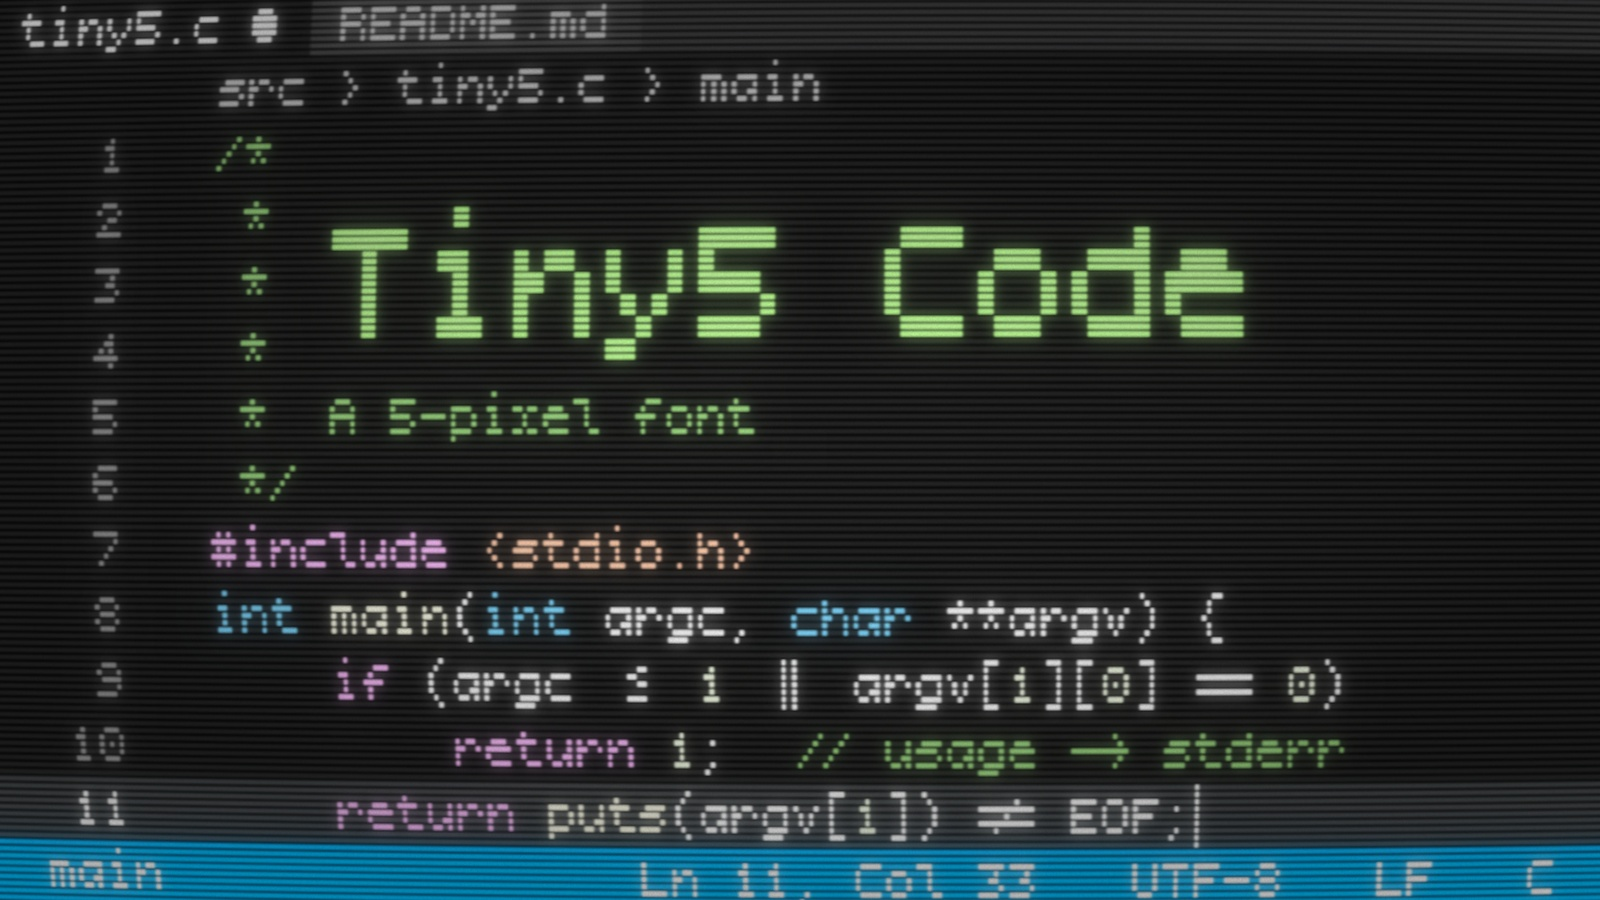
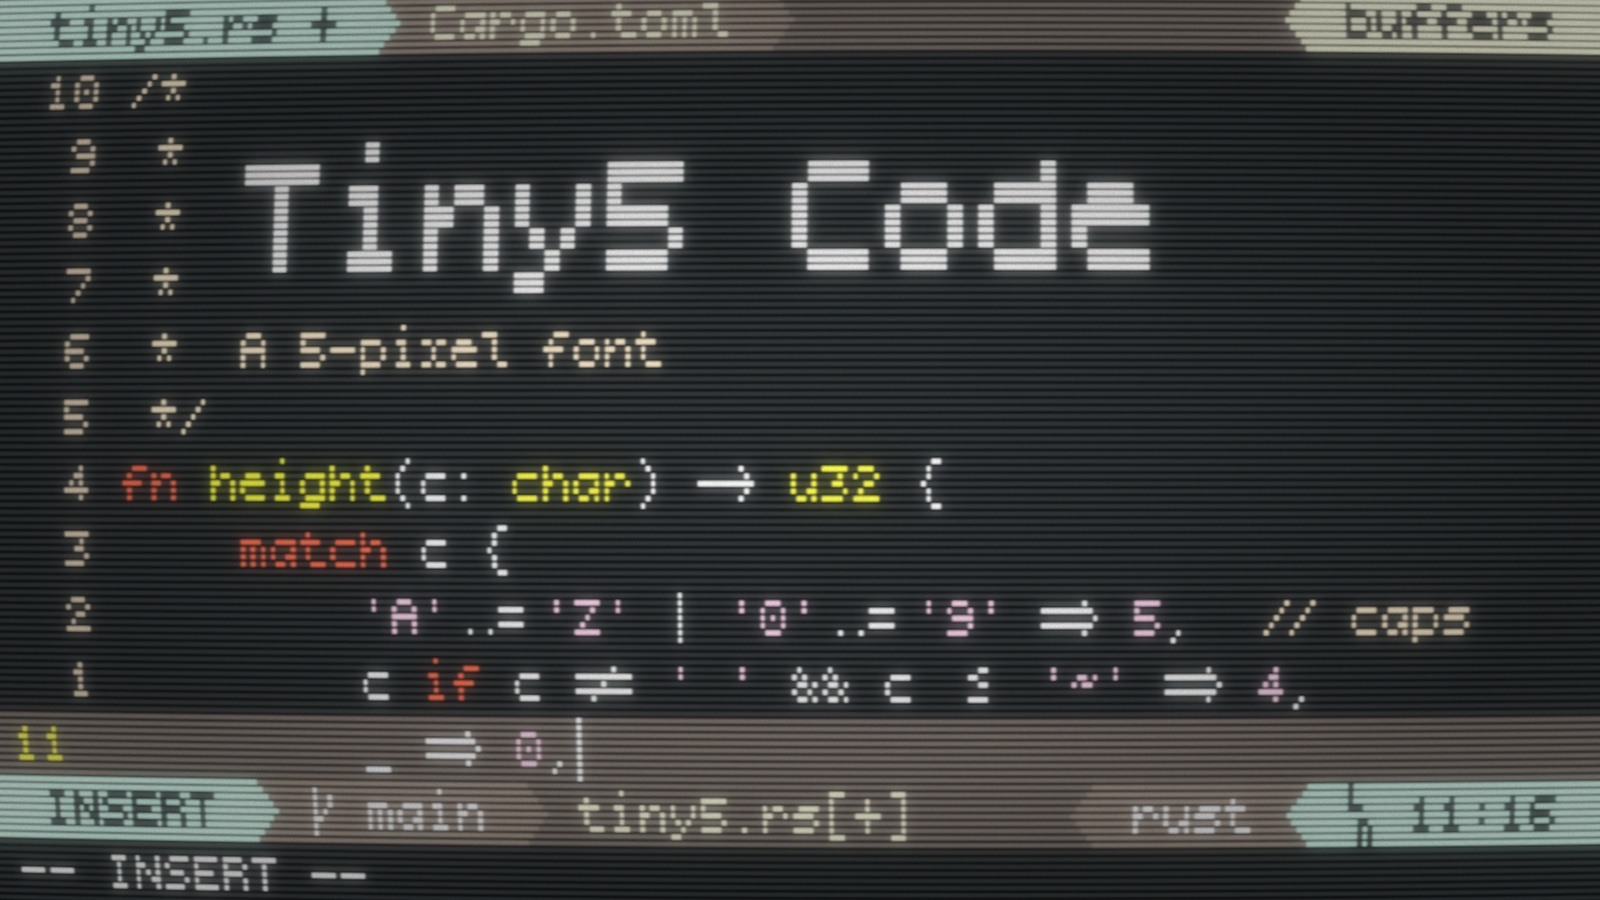
3.002

diff --git a/documentation/build-specimen.py b/documentation/build-specimen.py
@@ -21,9 +21,10 @@
 # repository: tiny5mono-github.jpg, its social preview image.
 #
 # Tiny5 Code, Tiny5 Mono with ligatures, shares every other specimen with
-# Tiny5 Mono, but has its own editor sample, tiny5code-sample1.jpg, set with
-# its ligatures: its other glyphs are Tiny5 Mono's, its ligature glyphs are
-# read from its outlines, and the text is shaped by bdf2ufo's own calt rules
+# Tiny5 Mono, but has its own code sample, tiny5code-sample1.jpg: a Vim
+# session with Powerline bars, on the editor's tube, set with its ligatures.
+# Its other glyphs are Tiny5 Mono's, its ligature glyphs are read from its
+# outlines, and the text is shaped by bdf2ufo's own calt rules
 # (scripts/bdf2ufo/calt.py), so no text shaper is needed.
 #
 # Besides the build's own requirements, the thermal receipt is path-traced
@@ -520,17 +521,6 @@ ED_SOURCE = [
     "    return 0;",
     "}",
 ]
-
-# Tiny5 Code's source keeps the comment, and has an operator or two on every
-# line after it, so its ligatures show: <= || == // -> !=
-ED_CODE_SOURCE = ED_SOURCE[:6] + [
-    "#include <stdio.h>",
-    "int main(int argc, char **argv) {",
-    "    if (argc <= 1 || argv[1][0] == 0)",
-    "        return 1;  // usage -> stderr",
-    "    return puts(argv[1]) != EOF;",
-    "}",
-]
 ED_CURSOR_LINE = 10             # 0-based: the line being typed
 ED_KEYWORDS = {"int", "void", "char", "const", "unsigned", "static"}
 ED_CONTROLS = {"return", "if", "else", "for", "while"}
@@ -562,12 +552,6 @@ ED_LAYOUTS = {
     "itch": {"canvas": ITCH_SIZE, "rows": 17, "code_col": 6, "name": ["Tiny5", "Mono"], "scale": 2},
     "itch-banner": {"canvas": BANNER_SIZE, "rows": 12, "code_col": 8, "name": ["Tiny5 Mono"],
                     "scale": 2},
-}
-
-# Tiny5 Code's sample, laid out as Tiny5 Mono's, set with its ligatures
-ED_CODE_LAYOUTS = {
-    "sample1": {"canvas": CANVAS, "rows": 14, "code_col": 8, "name": ["Tiny5 Code"], "scale": 1,
-                "code": True},
 }
 
 
@@ -608,17 +592,15 @@ def put_code(s, col, row, line, bg):
 def compose_editor(layout):
     """Compose the editor in a layout."""
     rows, code_col, scale = layout["rows"], layout["code_col"], layout["scale"]
-    code = layout.get("code", False)
     cols = crt_columns(rows, layout["canvas"])
-    s = TextScreen(cols, rows, ED_TEXT, ED_BG, ligatures=code)
+    s = TextScreen(cols, rows, ED_TEXT, ED_BG)
 
     # The source's comment makes room for the name on one line at its
     # smallest, and opens up as many lines more as a larger name needs,
     # keeping a pixel of the name's below it
     name_size = big_bitmap(layout["name"], ED_NAME_PITCH).size
     extra = big_cells((name_size[0] * scale, (name_size[1] + 1) * scale))[1] - 3
-    source = ED_CODE_SOURCE if code else ED_SOURCE
-    source = source[:1] + [" *"] * extra + source[1:]
+    source = ED_SOURCE[:1] + [" *"] * extra + ED_SOURCE[1:]
     cursor_line = ED_CURSOR_LINE + extra
 
     # The tab bar: the file being edited, and one more behind it
@@ -658,14 +640,168 @@ def build_editor():
     """The modern editor, on a color CRT: the tab bar against the top of
     the frame and the status bar against its foot. Its itch.io cover and
     banner, and its GitHub social preview, are laid out anew on their own
-    frames. Tiny5 Code's sample is the editor once more, set with its
-    ligatures."""
+    frames."""
     for name, layout in ED_LAYOUTS.items():
         save_image(render_crt(compose_editor(layout), layout["canvas"]), name,
                    google=layout["canvas"] == CANVAS)
-    for name, layout in ED_CODE_LAYOUTS.items():
-        save_image(render_crt(compose_editor(layout), layout["canvas"]), name,
-                   google=layout["canvas"] == CANVAS, family="tiny5code")
+
+
+# --- Vim with Powerline: Tiny5 Code's sample --------------------------------
+
+# Tiny5 Code's sample is a Vim session, on the editor's tube and at its
+# zoom, in the warm gruvbox theme: the buffer line across the top and the
+# status line along the foot are Powerline bars, their segments parted by
+# the font's own Powerline arrows; the line numbers count from the cursor's
+# line, as with relativenumber; and the command line below shows the mode.
+# The source is Rust, and after the comment it has an operator or two on
+# every line, so the ligatures show: -> ..= => // != <= --
+#
+# gruvbox's grays and pastels are muted; on the tube they are lifted a step
+# or two up its own ramp, so the screen reads as brightly as the editor's
+VIM_BG = (29, 32, 33)           # gruvbox dark, hard
+VIM_BG1 = (80, 73, 69)          # the cursor's line, the bars' fill
+VIM_BG2 = (102, 92, 84)
+VIM_FG = (251, 241, 199)
+VIM_FG4 = (213, 196, 161)
+VIM_DARK = (29, 32, 33)         # text on a bright segment
+VIM_LINE_NR = (168, 153, 132)
+VIM_COMMENT = (189, 174, 147)
+VIM_TITLE = (251, 241, 199)     # the banner's large type, the brightest
+VIM_KEYWORD = (251, 73, 52)
+VIM_FUNCTION = (184, 187, 38)
+VIM_STRING = (184, 187, 38)
+VIM_TYPE = (250, 189, 47)
+VIM_NUMBER = (231, 154, 175)    # numbers and character literals
+VIM_MODE = (151, 190, 175)      # insert mode's segment
+
+VIM_NAME = ["Tiny5 Code"]
+VIM_FILE = "tiny5.rs"
+VIM_SOURCE = ED_SOURCE[:6] + [
+    "fn height(c: char) -> u32 {",
+    "    match c {",
+    "        'A'..='Z' | '0'..='9' => 5,  // caps",
+    "        c if c != ' ' && c <= '~' => 4,",
+    "        _ => 0,",
+    "    }",
+    "}",
+]
+VIM_CURSOR_LINE = 10            # 0-based: the line being typed
+VIM_KEYWORDS = {"fn", "match", "if", "else", "let", "mut", "use", "return", "for", "in"}
+VIM_TYPES = {"char", "u8", "u32", "usize", "i32", "str", "bool", "String", "Self"}
+VIM_NUMBER_WIDTH = 4            # Vim's numberwidth: the gutter, with its gap
+VIM_MARGIN = 1                  # the terminal's padding either side, so the
+                                # tube's curve keeps the text in the frame;
+                                # the bars run on through it
+
+
+def put_rust(s, col, row, line, bg):
+    """Write a line of Rust in gruvbox's colors."""
+    if line.lstrip().startswith(("/*", "*")):
+        s.put(col, row, line, VIM_COMMENT, bg)
+        return
+    code, slashes, comment = line.partition("//")
+    x = col
+    tokens = re.findall(r"'[^']*'|\"[^\"]*\"|\w+|\W", code)
+    for i, token in enumerate(tokens):
+        following = next((t for t in tokens[i + 1:] if t != " "), "")
+        if token.startswith('"'):
+            color = VIM_STRING
+        elif token.startswith("'") or token.isdigit():
+            color = VIM_NUMBER
+        elif token in VIM_KEYWORDS:
+            color = VIM_KEYWORD
+        elif token in VIM_TYPES:
+            color = VIM_TYPE
+        elif token[0].isalpha() and following == "(":
+            color = VIM_FUNCTION
+        else:
+            color = VIM_FG
+        s.put(x, row, token, color, bg)
+        x += len(token)
+    if slashes:
+        s.put(x, row, slashes + comment, VIM_COMMENT, bg)
+
+
+def powerline(s, col, row, segments, fill, right=False):
+    """Draw a run of Powerline segments, each a text in its colors. From
+    the left, an arrow pointing right follows each segment, in its color on
+    the next one's, or on the fill; from the right, an arrow pointing left
+    leads each, in its color on the one before. On the right the run ends
+    at the column given."""
+    if right:
+        col -= sum(len(text) + 1 for text, _, _ in segments)
+    before = fill
+    for i, (text, fg, bg) in enumerate(segments):
+        if right:
+            s.put(col, row, "", bg, before)
+            s.put(col + 1, row, text, fg, bg)
+        else:
+            after = segments[i + 1][2] if i + 1 < len(segments) else fill
+            s.put(col, row, text, fg, bg)
+            s.put(col + len(text), row, "", bg, after)
+        col += len(text) + 1
+        before = bg
+
+
+def compose_vim():
+    """Compose the Vim session: the buffer line, the source in its window,
+    the status line and the command line."""
+    rows = ED_LAYOUTS["sample1"]["rows"]
+    screen_cols = crt_columns(rows, CANVAS)
+    cols = screen_cols - 2 * VIM_MARGIN
+    s = TextScreen(cols, rows, VIM_FG, VIM_BG)
+
+    # The buffer line: the file being edited, modified, and one more
+    s.fill(0, 0, cols, 1, " ", VIM_FG4, VIM_BG1)
+    powerline(s, 0, 0, [(f" {VIM_FILE} + ", VIM_DARK, VIM_MODE),
+                        (" Cargo.toml ", VIM_FG4, VIM_BG2)], VIM_BG1)
+    powerline(s, cols, 0, [(" buffers ", VIM_DARK, VIM_FG4)], VIM_BG1, right=True)
+
+    # The source, each line numbered by its distance from the cursor's, and
+    # the cursor's own line by its number, lit
+    top = 1
+    height = rows - top - 2
+    for i, line in enumerate(VIM_SOURCE[:height]):
+        if VIM_NUMBER_WIDTH + len(line) > cols:
+            line = line.partition("//")[0].rstrip()
+        if i == VIM_CURSOR_LINE:
+            s.fill(0, top + i, cols, 1, " ", VIM_FG, VIM_BG1)
+            s.put(0, top + i, f"{i + 1:<{VIM_NUMBER_WIDTH - 1}}", VIM_TYPE, VIM_BG1)
+            put_rust(s, VIM_NUMBER_WIDTH, top + i, line, VIM_BG1)
+        else:
+            s.put(0, top + i, f"{abs(i - VIM_CURSOR_LINE):{VIM_NUMBER_WIDTH - 1}}", VIM_LINE_NR)
+            put_rust(s, VIM_NUMBER_WIDTH, top + i, line, VIM_BG)
+    s.big_text(VIM_NUMBER_WIDTH + 4, top + 1, VIM_NAME, VIM_TITLE, pitch=ED_NAME_PITCH)
+    cursor_col = len(VIM_SOURCE[VIM_CURSOR_LINE])
+    s.put(VIM_NUMBER_WIDTH + cursor_col, top + VIM_CURSOR_LINE, "▏", VIM_FG, VIM_BG1)
+
+    # The status line: the mode, the branch and the file on the left; the
+    # file type, and the cursor's line and column, on the right
+    status = rows - 2
+    s.fill(0, status, cols, 1, " ", VIM_FG4, VIM_BG1)
+    powerline(s, 0, status, [(" INSERT ", VIM_DARK, VIM_MODE),
+                             ("  main ", VIM_FG, VIM_BG2),
+                             (f" {VIM_FILE}[+] ", VIM_FG4, VIM_BG1)], VIM_BG1)
+    powerline(s, cols, status, [(" rust ", VIM_FG, VIM_BG2),
+                                (f"  {VIM_CURSOR_LINE + 1}:{cursor_col + 1} ",
+                                 VIM_DARK, VIM_MODE)], VIM_BG1, right=True)
+
+    # The command line
+    s.put(0, rows - 1, "-- INSERT --", VIM_FG)
+
+    # The padding takes each row's color at its edge
+    framed = TextScreen(screen_cols, rows, VIM_FG, VIM_BG, ligatures=True)
+    for y, line in enumerate(s.cells):
+        framed.cells[y][VIM_MARGIN:VIM_MARGIN + cols] = line
+        framed.fill(0, y, VIM_MARGIN, 1, " ", bg=line[0][2])
+        framed.fill(VIM_MARGIN + cols, y, VIM_MARGIN, 1, " ", bg=line[-1][2])
+
+    return framed
+
+
+def build_vim():
+    """Tiny5 Code's sample: the Vim session, on the editor's tube."""
+    save_image(render_crt(compose_vim()), "sample1", family="tiny5code")
 
 
 # --- System monitor: the terminal ------------------------------------------
@@ -1716,9 +1852,10 @@ def build_animation():
 if __name__ == "__main__":
     build_animation()                           # the presentation: variation axes, animated
     build_editor()                              # 1: code, modern editor on a color CRT,
-                                                # the itch.io cover and banner, the
-                                                # GitHub social preview, and Tiny5
-                                                # Code's sample, with ligatures
+                                                # the itch.io cover and banner, and the
+                                                # GitHub social preview
+    build_vim()                                 # Tiny5 Code's 1: Vim with Powerline,
+                                                # with ligatures, color CRT
     build_charset()                             # 2: character set, character LCD
     build_ramp()                                # 3: size ramp, thermal receipt
     build_monitor()                             # 4: system monitor, color CRT
